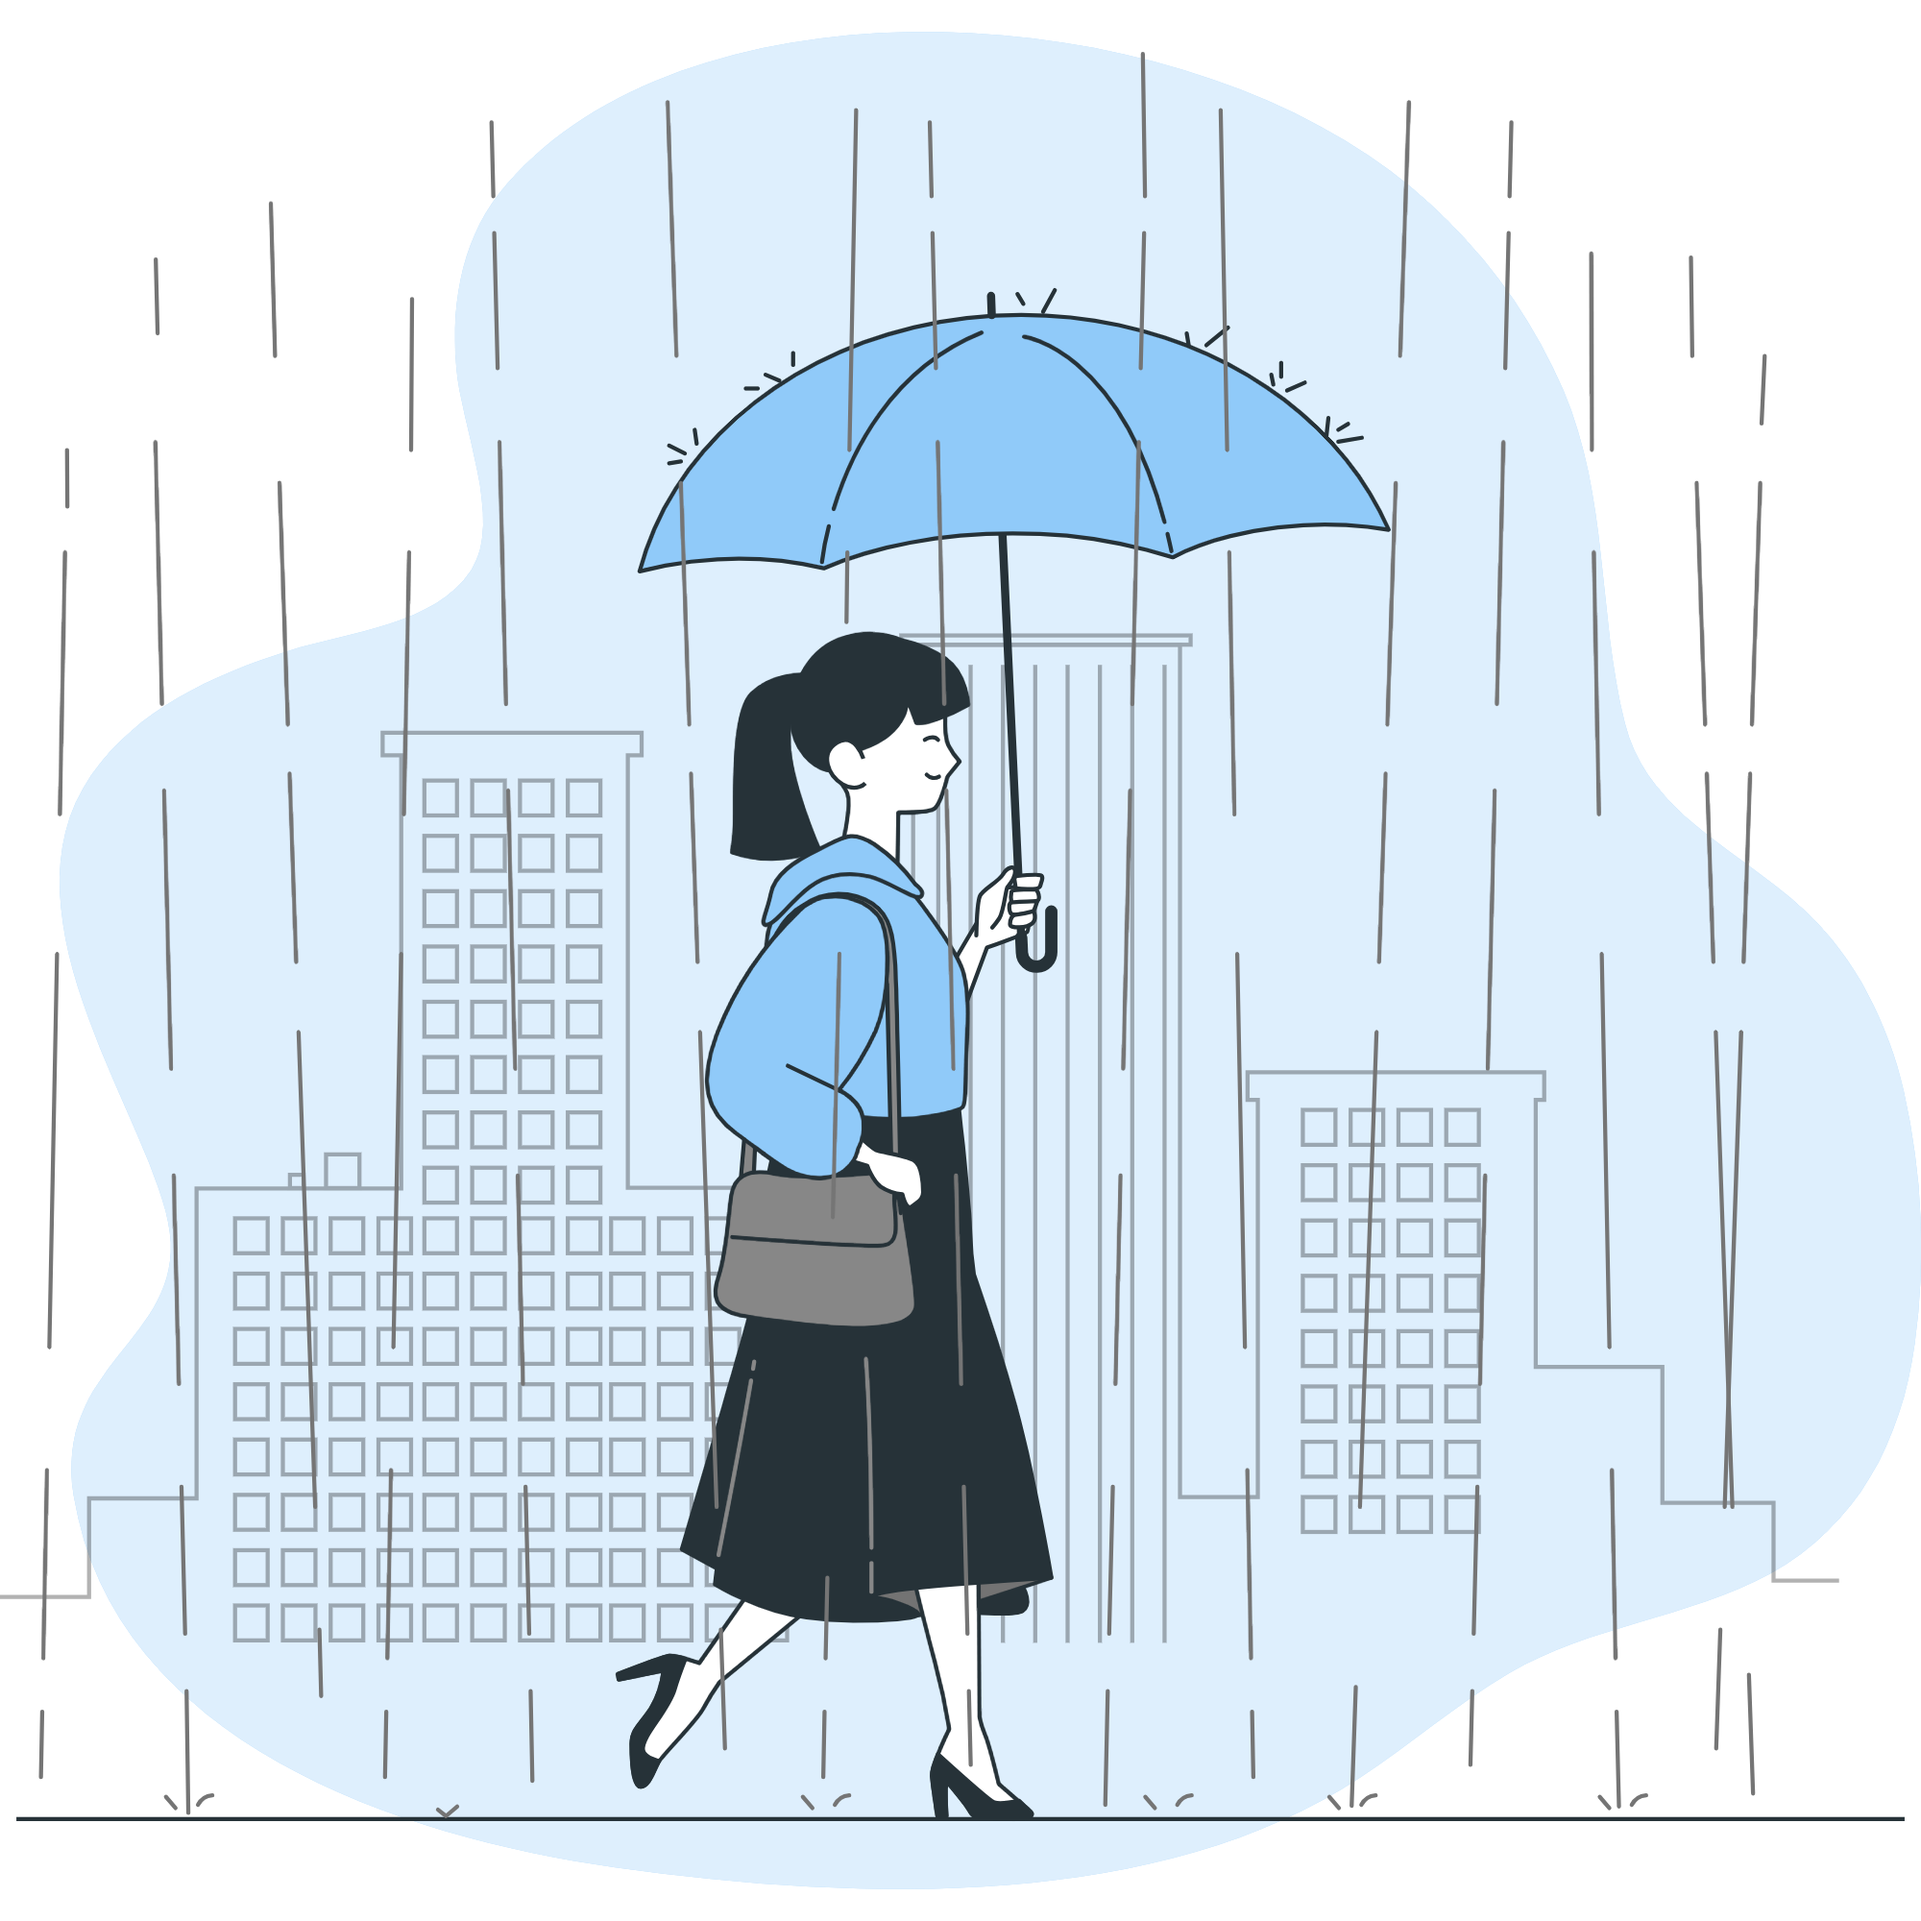
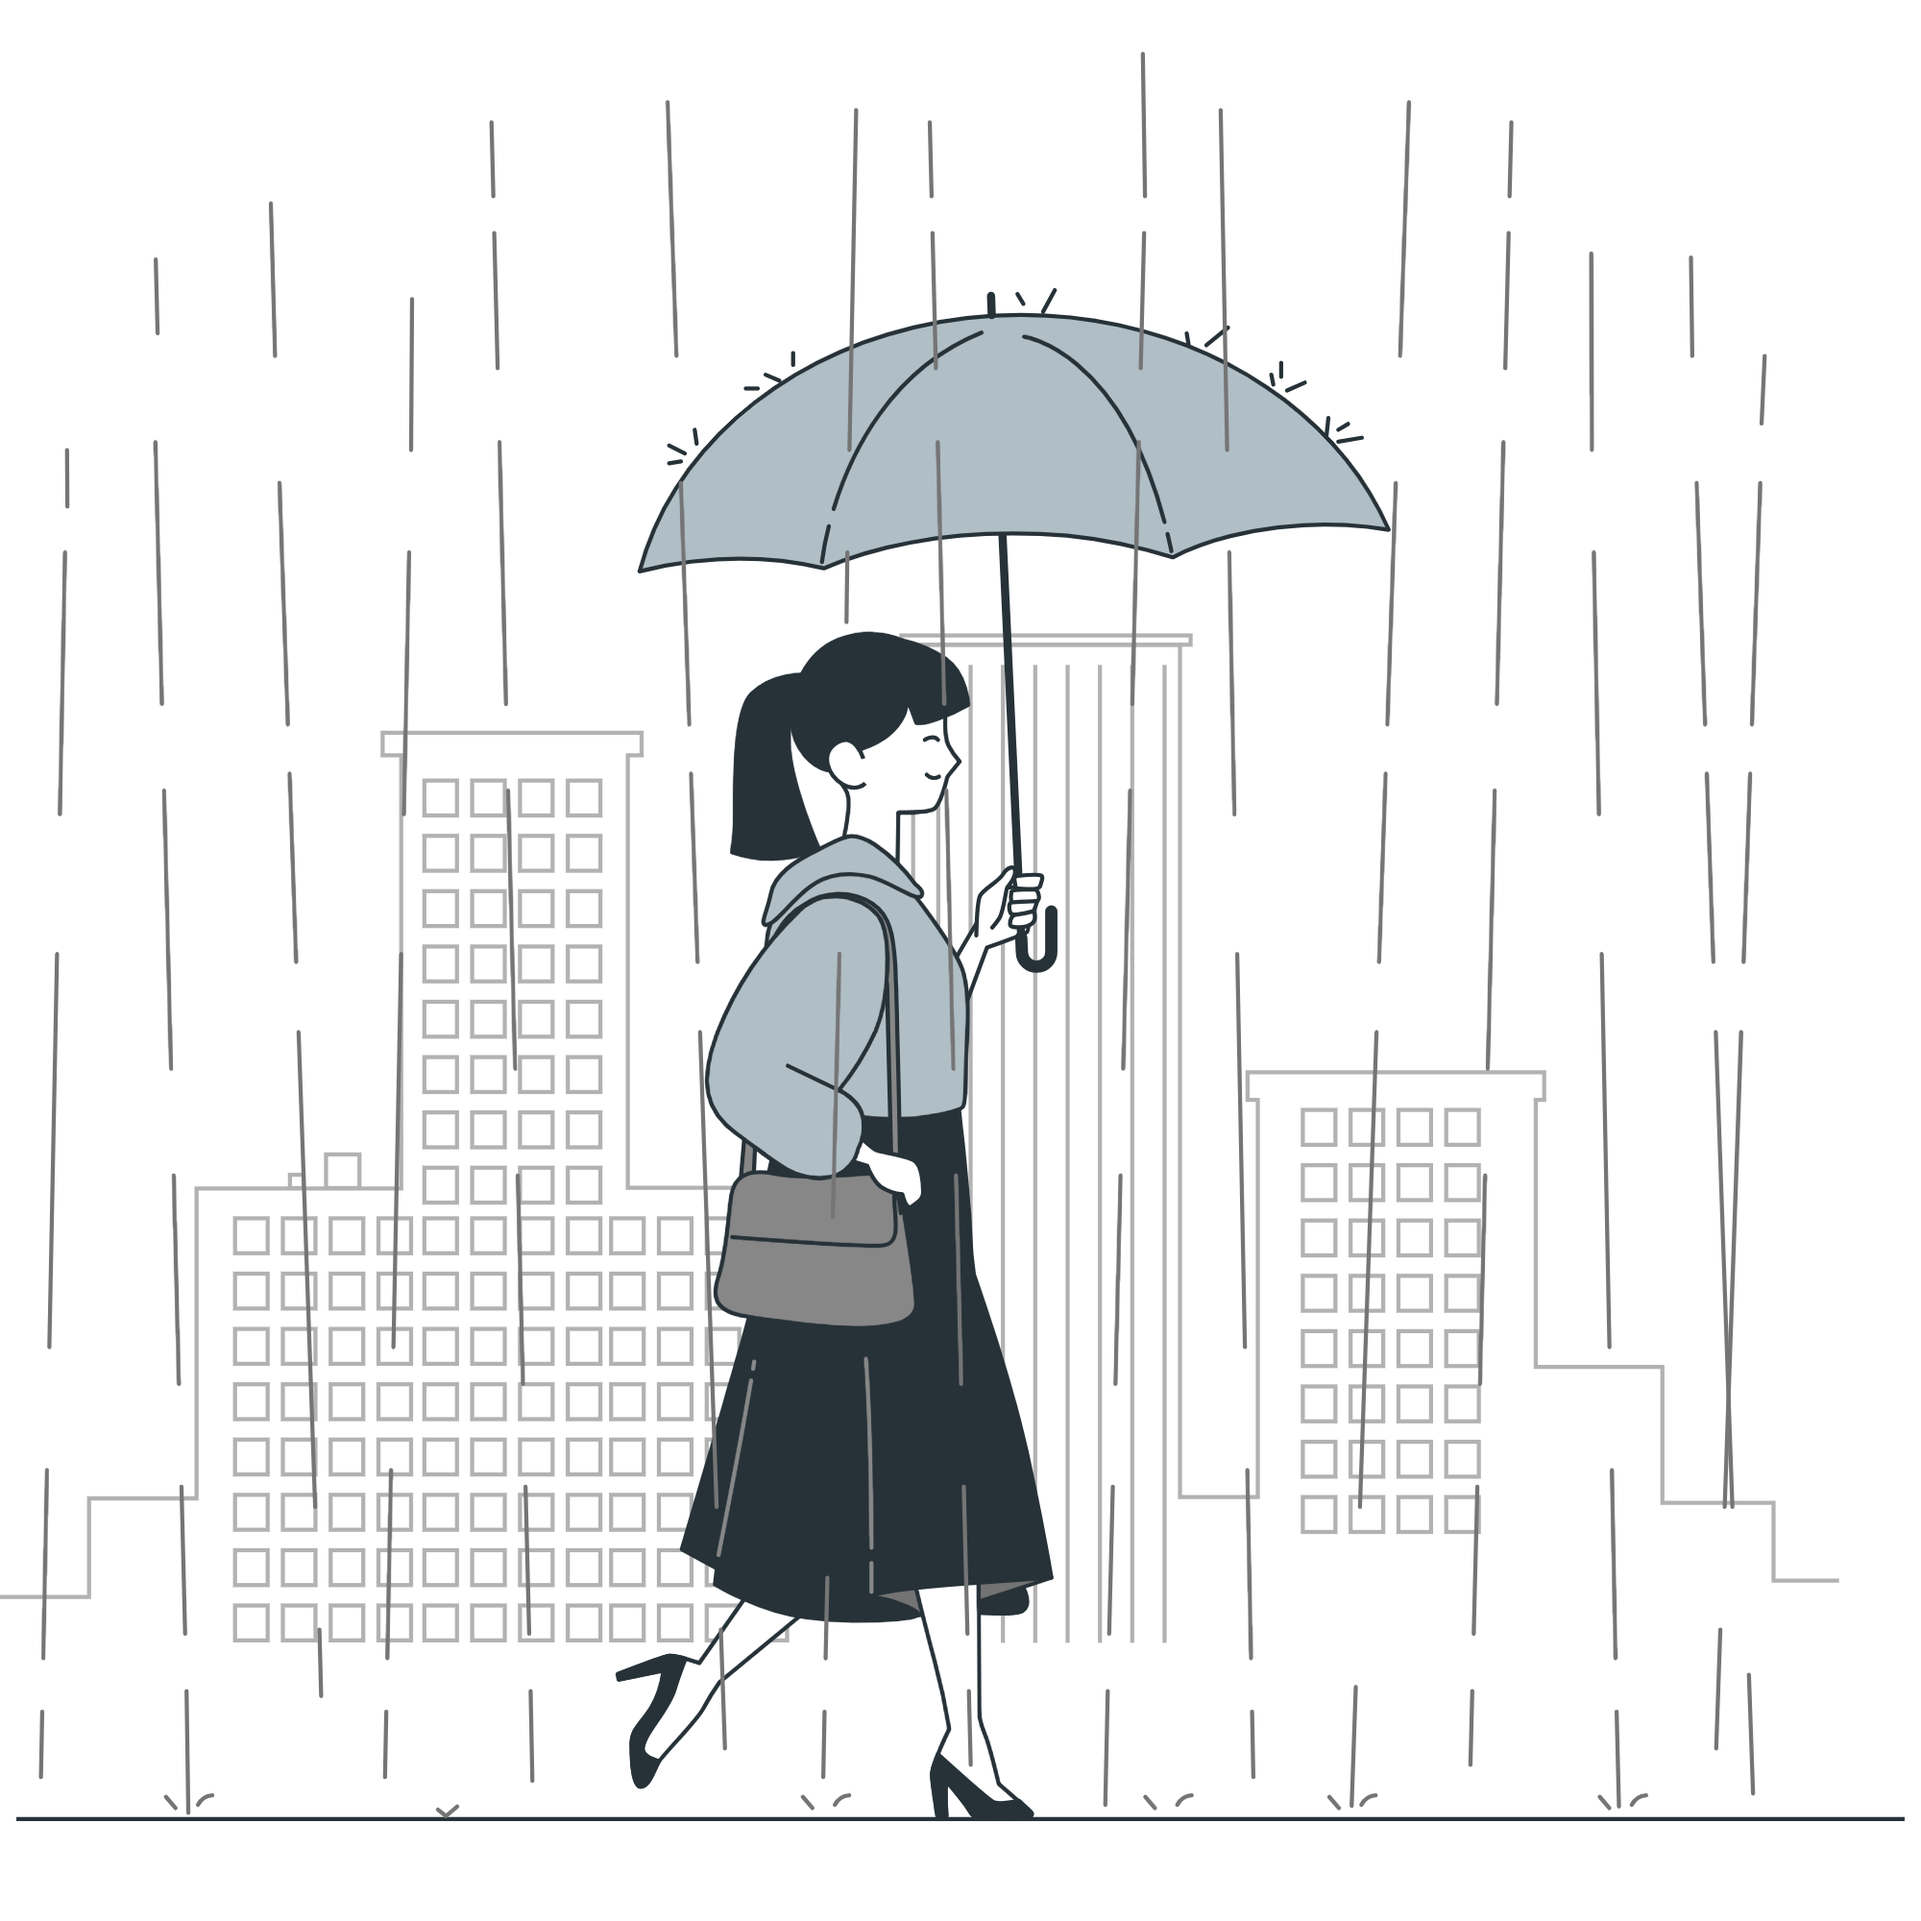
background

diff --git a/src/components/WeatherApp.jsx b/src/components/WeatherApp.jsx
@@ -91,8 +91,19 @@ function WeatherApp() {
   const weatherImage = data.weather
     ? weatherImages[data.weather[0].main]
     : null;
+  const backgroundImages = {
+    Clear: `linear-gradient(135deg,rgb(211, 111, 30),rgb(231, 169, 53))`,
+    Snow: `linear-gradient(135deg, #2c3e50,rgb(161, 202, 209))`,
+    Rain: `linear-gradient(135deg,rgb(112, 133, 155),rgb(75, 83, 85)`,
+    Clouds: `linear-gradient(135deg,rgb(57, 92, 133),rgb(69, 87, 114)`,
+    Haze: `linear-gradient(135deg,rgb(81, 127, 173), #93ccd6)`,
+    Mist: `linear-gradient(135deg, #2c3e50, #93ccd6)`,
+  };
+  const backgroundImage = data.weather
+    ? backgroundImages[data.weather[0].main]
+    : null;
   return (
-    <div className="container">
+    <div className="container" style={{ backgroundImage }}>
       <div className="weather-app">
         <button className="theme-toggle">
           <i className="fa-solid fa-moon"></i>
@@ -179,30 +190,25 @@ function WeatherApp() {
         </div>
 
         <div className="forecast">
-          <div className="forecast-title">5-Day Forecast</div>
+          <div className="forecast-title">Day Forecast</div>
           <div className="forecast-items">
             <div className="forecast-item">
-              <div className="forecast-day">Thu</div>
               <i className="fa-solid fa-sun forecast-icon"></i>
               <div className="forecast-temp">29°C</div>
             </div>
             <div className="forecast-item">
-              <div className="forecast-day">Fri</div>
               <i className="fa-solid fa-cloud-sun forecast-icon"></i>
               <div className="forecast-temp">27°C</div>
             </div>
             <div className="forecast-item">
-              <div className="forecast-day">Sat</div>
               <i className="fa-solid fa-cloud forecast-icon"></i>
               <div className="forecast-temp">25°C</div>
             </div>
             <div className="forecast-item">
-              <div className="forecast-day">Sun</div>
               <i className="fa-solid fa-cloud-sun-rain forecast-icon"></i>
               <div className="forecast-temp">24°C</div>
             </div>
             <div className="forecast-item">
-              <div className="forecast-day">Mon</div>
               <i className="fa-solid fa-sun forecast-icon"></i>
               <div className="forecast-temp">26°C</div>
             </div>

diff --git a/src/components/WeatherApp.css b/src/components/WeatherApp.css
@@ -2,7 +2,7 @@
 @import url("https://fonts.googleapis.com/css2?family=Poppins:wght@300;400;500;600;700&family=Montserrat:wght@400;500;600&display=swap");
 
 :root {
-  --primary-gradient: linear-gradient(135deg, #2c3e50, #adb9bb);
+  --primary-gradient: linear-gradient(135deg, #2c3e50, #93ccd6);
   --glass-bg: rgba(255, 255, 255, 0.1);
   --glass-bg-darker: rgba(255, 255, 255, 0.1);
   --glass-bg-hover: rgba(255, 194, 194, 0.2);
@@ -22,7 +22,7 @@
   font-family: "Poppins", sans-serif;
 }
 
-body {
+/* body {
   background: var(--primary-gradient);
   min-height: 100vh;
   display: flex;
@@ -30,9 +30,9 @@ body {
   align-items: center;
   padding: 20px;
   transition: background 0.5s ease;
-}
+} */
 
-body::before {
+/* body::before {
   content: "";
   position: fixed;
   top: 0;
@@ -44,12 +44,10 @@ body::before {
   background-position: center;
   opacity: 0.65;
   z-index: -1;
-}
+} */
 
 .container {
   width: 100%;
-  max-width: 800px;
-
   display: flex;
   justify-content: center;
 }
@@ -68,7 +66,7 @@ body::before {
   border: 1px solid rgba(255, 255, 255, 0.1);
 }
 
-.weather-app::before {
+/* .weather-app::before {
   content: "";
   position: absolute;
   width: 200px;
@@ -81,7 +79,7 @@ body::before {
   top: -100px;
   right: -100px;
   border-radius: 50%;
-}
+} */
 
 .search {
   margin-bottom: 35px;
@@ -180,17 +178,17 @@ body::before {
   bottom: -20px;
   left: 50%;
   transform: translateX(-50%);
-  width: 80px;
+  width: 100px;
   height: 2px;
   background: rgba(255, 255, 255, 0.2);
   border-radius: 2px;
 }
 
 .climate img {
-  width: 350px;
-  margin-top: -7rem;
-  filter: drop-shadow(0 10px 20px rgba(0, 0, 0, 0.25));
-  animation: float 6s ease-in-out infinite;
+  width: 290px;
+  margin-top: -50px;
+
+  height: auto;
 }
 
 @keyframes float {
@@ -209,7 +207,7 @@ body::before {
   margin-bottom: 8px;
   letter-spacing: 1px;
   text-transform: uppercase;
-  background: linear-gradient(to right, #ffffff, #dff6ff);
+  background: linear-gradient(to right, #ffffff, #31c5ff);
   -webkit-background-clip: text;
   background-clip: text;
   -webkit-text-fill-color: transparent;
@@ -438,11 +436,6 @@ body::before {
   background: rgba(255, 255, 255, 0.1);
   border-radius: 10px;
   transform: translateY(-3px);
-}
-
-.forecast-day {
-  font-size: 14px;
-  margin-bottom: 5px;
 }
 
 .forecast-icon {
